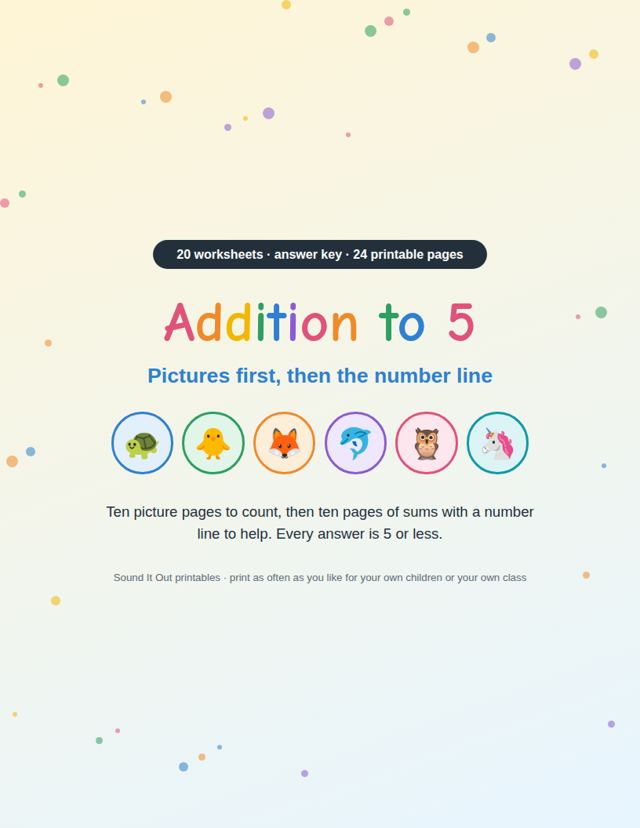
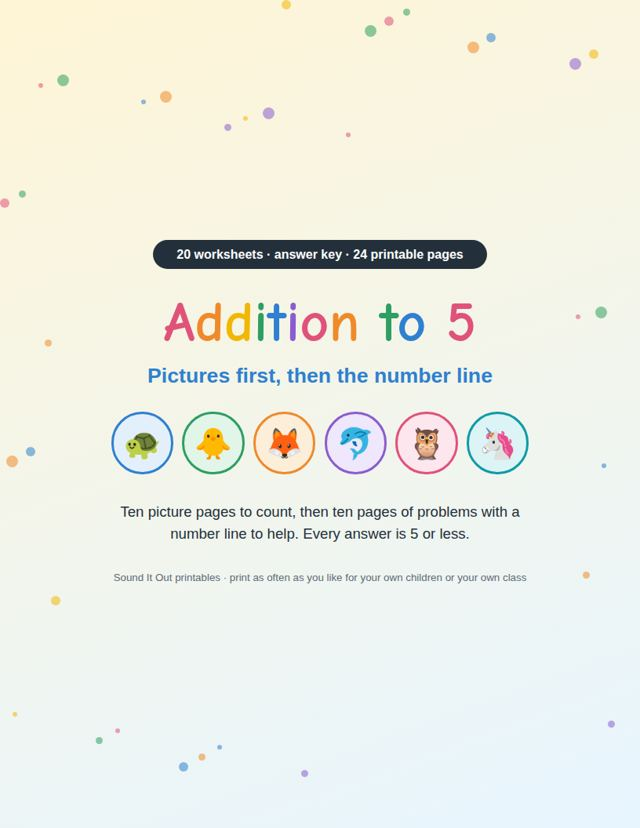
Rebuilt packs

Changed region(s): [[0.1562, 0.6039, 0.8438, 0.6643]]

diff --git a/skills/index.html b/skills/index.html
@@ -78,7 +78,7 @@ h3.cat{font-family:"Comic Sans MS","Trebuchet MS",sans-serif;font-size:clamp(23p
 
 <p><b>Ready to print:</b></p><ul><li><a href="../free-decodable-reading-sampler/">Free Decodable Reading Sampler</a>: Free printable CVC words, sentences and stories</li><li><a href="../sound-it-out-decodable-phonics-practice/">Sound It Out</a>: Decodable phonics reading practice: words, sentences and stories</li><li><a href="../decodable-reading-passages-with-questions/">Read It, Get It</a>: 24 decodable reading passages with comprehension questions</li></ul>
 
-<p><b>Being made next:</b> Word Family Houses, Rhyming Words, Beginning Sounds, Color Words, CVC Read and Match, CVC Word Building, CVC Sentence Reading, Ending Sounds, Middle Vowel, Digraph Sort, Blends Practice, Syllable Count, Sentence Scramble, Capital and Period, Fluency Grid, Word Family Sort, Plural S, Opposites, Read and Draw, Question Words, Compound Words, Rhyme Odd One Out, Vowel or Consonant, Copy the Sentence, Roll and Read, Short Vowel Words, Letter Sounds.</p>
+<p><b>Being made next:</b> Word Family Houses, Rhyming Words, Beginning Sounds, Color Words, CVC Read and Match, CVC Word Building, CVC Sentence Reading, Ending Sounds, Middle Vowel, Digraph Sort, Blends Practice, Syllable Count, Sentence Scramble, Capital and Period, Fluency Grid, Word Family Sort, Plural S, Opposites, Read and Draw, Question Words, Compound Words, Rhyme Odd One Out, Vowel or Consonant, Copy the Sentence, Roll and Read, Letter Sounds.</p>
 <h2 id="sight-words-worksheets">👀 <a href="../sight-words-worksheets/">Sight Words</a></h2><p>Printable sight word worksheets for kindergarten and first grade: read, trace, write, find and build each word.</p>
 
 <p><b>Ready to print:</b></p><ul><li><a href="../sight-words-set-1/">Sight Words Set 1</a>: Sight word practice worksheets, one word per page (<a href="../free-sight-words-set-1/">3 free pages</a>)</li></ul>
